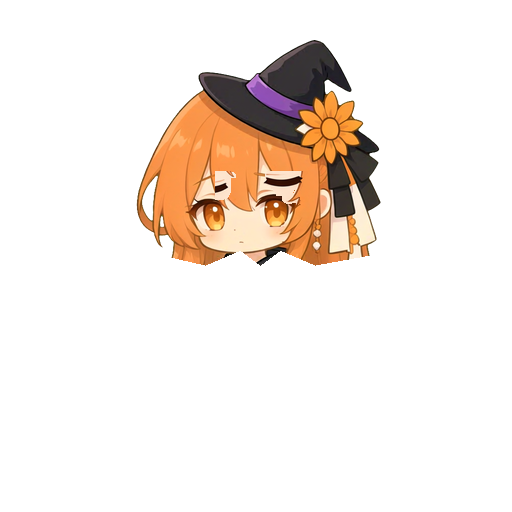
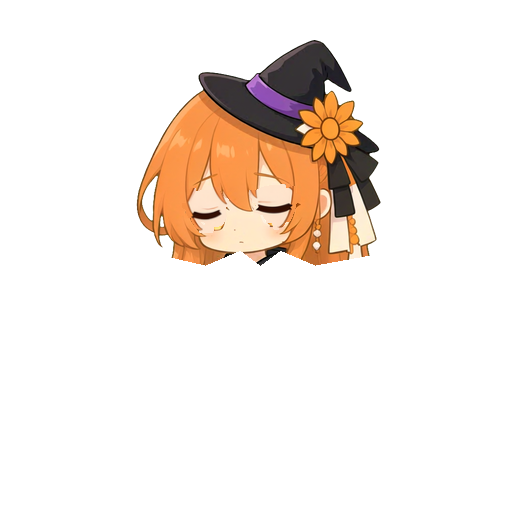
修正眨眼移植与换装 wink 的眼部残留
port_blink 的眼部取样带从 x=212 起，参考帧左眼却延伸到 x≈185，左眼掩码被截断，新装扮的 blink 会残留半只睁眼；放宽取样带后重生成 blink 与 head_blink。换装触发的 wink 原先用写死坐标的矢量遮罩，新立绘眼睛更大，椭圆盖不住睫毛和虹膜，改为贴本套 blink 帧的左眼区域，并补上逐套回归测试。

Changed region(s): [[0.3438, 0.3125, 0.5938, 0.4688]]

diff --git a/tools/port_blink.py b/tools/port_blink.py
@@ -16,9 +16,12 @@ SPRITES = BASE / "assets" / "sprites"
 
 DIFF_THRESHOLD = 60
 FACE_POLY = ((218, 165), (310, 165), (310, 252), (218, 252))
-EYE_BAND = ((212, 182), (314, 182), (314, 242), (212, 242))
+# 必须完整盖住两只眼睛：参考帧左眼一直延伸到 x≈185，右边缘截断会留下半只睁眼。
+EYE_BAND = ((170, 166), (330, 166), (330, 238), (170, 238))
 ALIGN_PAD = 10
 MIN_PIECE = 250
+SCALES = (0.90, 0.94, 0.98, 1.0, 1.02)
+FACE_CENTER = (264, 208)
 
 
 def dilate(mask: np.ndarray, radius: int = 1) -> np.ndarray:
@@ -52,12 +55,22 @@ def components(mask: np.ndarray) -> list[np.ndarray]:
     return found
 
 
+def scale_rgba(rgba: np.ndarray, scale: float, center: tuple[int, int]) -> np.ndarray:
+    cx, cy = center
+    coeffs = (1 / scale, 0, cx - cx / scale, 0, 1 / scale, cy - cy / scale)
+    image = Image.fromarray(rgba)
+    out = image.transform(
+        (CANVAS, CANVAS), Image.AFFINE, coeffs, resample=Image.BILINEAR
+    )
+    return np.asarray(out)
+
+
 def sad_shift(
     ref: np.ndarray,
     target: np.ndarray,
     window: np.ndarray,
-    max_shift: int = 10,
-) -> tuple[int, int]:
+    max_shift: int = 16,
+) -> tuple[int, int, int]:
     base = window & (ref[..., 3] > 8) & (target[..., 3] > 8)
     best = (0, 0)
     best_score = float("inf")
@@ -69,11 +82,7 @@ def sad_shift(
             if score < best_score:
                 best_score = score
                 best = (dy, dx)
-    return best
-
-
-def face_window() -> np.ndarray:
-    return polygon_mask((CANVAS, CANVAS), FACE_POLY)
+    return best[0], best[1], int(best_score)
 
 
 def eye_mask(ref_idle: np.ndarray, ref_blink: np.ndarray) -> np.ndarray:
@@ -89,20 +98,34 @@ def port_blink(outfit: str, ref: str = "casual") -> Path:
     ref_idle = np.asarray(Image.open(SPRITES / ref / "idle.png").convert("RGBA"))
     ref_blink = np.asarray(Image.open(SPRITES / ref / "blink.png").convert("RGBA"))
     idle = np.asarray(Image.open(SPRITES / outfit / "idle.png").convert("RGBA"))
-    window = face_window()
+    window = polygon_mask((CANVAS, CANVAS), FACE_POLY)
 
     # 第一段：参考 blink 对齐到参考 idle，收紧眼部差异
-    rdy, rdx = sad_shift(ref_idle, ref_blink, window)
-    ref_blink_aligned = shift_rgba(ref_blink, rdy, rdx)
+    rdy, rdx, _ = sad_shift(ref_idle, ref_blink, window)
+    ref_blink = shift_rgba(ref_blink, rdy, rdx)
 
-    # 第二段：参考 idle 对齐到目标 idle
-    tdy, tdx = sad_shift(ref_idle, idle, window)
+    # 第二段：尺度 + 平移对齐参考 idle 到目标 idle
+    best = (1.0, 0, 0, float("inf"))
+    for scale in SCALES:
+        si = scale_rgba(ref_idle, scale, FACE_CENTER)
+        dy, dx, score = sad_shift(si, idle, window)
+        if score < best[3]:
+            best = (scale, dy, dx, score)
+    scale, tdy, tdx, _ = best
+    si = scale_rgba(ref_idle, scale, FACE_CENTER)
+    sb = scale_rgba(ref_blink, scale, FACE_CENTER)
 
     out = idle.copy()
     pieces = 0
-    aligned_blink = shift_rgba(ref_blink_aligned, tdy, tdx)
-    for part in components(eye_mask(ref_idle, ref_blink_aligned)):
-        patch = shift_rgba(dilate(part, 1).astype(np.uint8), tdy, tdx).astype(bool)
+    for part in components(eye_mask(si, sb)):
+        ys, xs = np.where(part)
+        y0, y1 = max(0, ys.min() - ALIGN_PAD), min(CANVAS, ys.max() + ALIGN_PAD + 1)
+        x0, x1 = max(0, xs.min() - ALIGN_PAD), min(CANVAS, xs.max() + ALIGN_PAD + 1)
+        piece_window = np.zeros((CANVAS, CANVAS), dtype=bool)
+        piece_window[y0:y1, x0:x1] = True
+        pdy, pdx, _ = sad_shift(si, idle, piece_window)
+        aligned_blink = shift_rgba(sb, pdy, pdx)
+        patch = shift_rgba(dilate(part, 2).astype(np.uint8), pdy, pdx).astype(bool)
         patch &= idle[..., 3] > 8
         out[patch] = aligned_blink[patch]
         pieces += 1
@@ -110,7 +133,7 @@ def port_blink(outfit: str, ref: str = "casual") -> Path:
     Image.fromarray(out).save(target)
     print(
         f"{outfit}: blink ported from {ref} "
-        f"(ref shift {rdy},{rdx}, target shift {tdy},{tdx}, {pieces} pieces)"
+        f"(ref shift {rdy},{rdx}, scale {scale:.2f}, base {tdy},{tdx}, {pieces} pieces)"
     )
     return target
 

diff --git a/tests/test_window_render.py b/tests/test_window_render.py
@@ -4,15 +4,24 @@ import os
 
 os.environ.setdefault("QT_QPA_PLATFORM", "offscreen")
 
-from PySide6.QtGui import QImage
+import numpy as np
+from PySide6.QtGui import QImage, QPainter
 from PySide6.QtWidgets import QApplication
 
-from pet.animation import SpriteLibrary
+from pet.animation import WINK_BOX, SpriteLibrary
 from pet.behavior import PetState
+from pet.outfits import available_ids
 from pet.rig import RigLibrary
 from pet.window import PetWindow
 
 _APP = QApplication.instance() or QApplication([])
+
+
+def qimage_array(image: QImage) -> np.ndarray:
+    image = image.convertToFormat(QImage.Format_RGBA8888)
+    data = np.frombuffer(image.constBits(), np.uint8)
+    rows = data.reshape(image.height(), image.bytesPerLine())
+    return rows[:, : image.width() * 4].reshape(image.height(), image.width(), 4).copy()
 
 
 def render(window: PetWindow) -> QImage:
@@ -41,6 +50,39 @@ def test_hover_lean_ramps_instead_of_snapping():
     falling = [window.step_hover(1 / 30) for _ in range(8)]
     assert max(abs(b - a) for a, b in zip(falling, falling[1:])) < 0.6
     assert falling[-1] < 0.6
+
+
+def test_wink_closes_the_whole_left_eye_for_every_outfit():
+    from tools.port_blink import components
+
+    sprites = SpriteLibrary()
+    window = PetWindow(sprites)
+    box_x, box_y, box_w, box_h = WINK_BOX
+    for outfit in available_ids():
+        idle = qimage_array(sprites.image(outfit, "idle"))
+        blink = qimage_array(sprites.image(outfit, "blink"))
+        diff = np.abs(
+            idle[..., :3].astype(np.int16) - blink[..., :3].astype(np.int16)
+        ).sum(axis=2)
+        mask = (idle[..., 3] > 8) & (blink[..., 3] > 8) & (diff > 100)
+        mask[:, 245:] = False
+        mask[:140] = False
+        mask[250:] = False
+        eye = max(components(mask), key=lambda piece: int(piece.sum()))
+        ys, xs = np.where(eye)
+        assert box_x <= xs.min() and xs.max() < box_x + box_w, outfit
+        assert box_y <= ys.min() and ys.max() < box_y + box_h, outfit
+
+        canvas = sprites.image(outfit, "idle").copy()
+        painter = QPainter(canvas)
+        window.set_outfit(outfit)
+        window._draw_expression(painter, PetState(expression="wink"))
+        painter.end()
+        result = qimage_array(canvas)
+        delta = np.abs(
+            result[ys, xs, :3].astype(np.int16) - blink[ys, xs, :3].astype(np.int16)
+        )
+        assert int(delta.max()) <= 6, outfit
 
 
 def test_maid_and_casual_both_render():

diff --git a/pet/animation.py b/pet/animation.py
@@ -30,6 +30,8 @@ FEET = "feet"
 SPRITE_FEET_X = 256
 SPRITE_FEET_Y = 500
 HAND_SPOTS = ((174, 330, 30), (338, 330, 30))
+# 眨眼帧左眼区域，眨眼帧在这里只会比 idle 多一层闭眼；必须完整盖住每套的左眼。
+WINK_BOX = (174, 158, 68, 82)
 
 
 def part_at(sx: int, sy: int) -> str:
@@ -51,6 +53,7 @@ class SpriteLibrary:
     def __init__(self) -> None:
         self._cache: dict[tuple[str, str], QPixmap] = {}
         self._images: dict[tuple[str, str], QImage] = {}
+        self._winks: dict[str, tuple[QImage, int, int] | None] = {}
         self.missing: list[str] = []
 
     def preload(self) -> None:
@@ -100,6 +103,17 @@ class SpriteLibrary:
             image.fill(0)
         self._images[key] = image
         return image
+
+    def wink_patch(self, outfit: str) -> tuple[QImage, int, int] | None:
+        if outfit in self._winks:
+            return self._winks[outfit]
+        image = self.image(outfit, "blink")
+        x, y, width, height = WINK_BOX
+        patch = None
+        if not image.isNull():
+            patch = (image.copy(x, y, width, height), x, y)
+        self._winks[outfit] = patch
+        return patch
 
     def alpha_at(self, outfit: str, frame: str, sx: int, sy: int) -> int:
         if not (0 <= sx < SPRITE_SIZE and 0 <= sy < SPRITE_SIZE):

diff --git a/pet/window.py b/pet/window.py
@@ -481,19 +481,11 @@ class PetWindow(QWidget):
                     int(235 * (1.0 - phase * 0.5)),
                 )
         elif expression == "wink":
-            painter.setPen(Qt.NoPen)
-            painter.setBrush(QColor(253, 230, 205, 255))
-            painter.drawEllipse(QRectF(201, 191, 30, 23))
-            pen = QPen(QColor(90, 45, 20, 245), 3.4)
-            pen.setCapStyle(Qt.RoundCap)
-            painter.setPen(pen)
-            painter.setBrush(Qt.NoBrush)
-            path = QPainterPath()
-            path.moveTo(203, 201)
-            path.quadTo(216, 212, 229, 200)
-            painter.drawPath(path)
-            painter.drawLine(QPointF(203, 201), QPointF(198, 197))
-            painter.drawLine(QPointF(229, 200), QPointF(234, 196))
+            if state.frame == "idle":
+                wink = self.sprites.wink_patch(self.outfit)
+                if wink is not None:
+                    patch, x, y = wink
+                    painter.drawImage(QPointF(x, y), patch)
             self._sparkle(painter, 312, 172, 13.0, 220)
         elif expression == "tears":
             self._drop(painter, 232, 232, 11, QColor(120, 200, 255, 230))

diff --git a/tests/test_sprites.py b/tests/test_sprites.py
@@ -55,3 +55,20 @@ def test_icons_exist():
     tray = Image.open(ICONS / "tray.png")
     assert tray.size == (128, 128)
     assert (ICONS / "pet.ico").exists()
+
+
+def test_blink_mask_covers_both_eyes():
+    from tools.port_blink import SPRITES, components, eye_mask
+
+    idle = np.asarray(Image.open(SPRITES / "casual" / "idle.png").convert("RGBA"))
+    blink = np.asarray(Image.open(SPRITES / "casual" / "blink.png").convert("RGBA"))
+    pieces = []
+    for piece in components(eye_mask(idle, blink)):
+        xs = np.where(piece)[1]
+        pieces.append((int(xs.min()), int(xs.max()), int(piece.sum())))
+    assert len(pieces) == 2, pieces
+    left, right = sorted(pieces)
+    # 参考帧左眼一直延伸到 x≈185；掩码左边缘一旦收窄，目标帧会残留半只睁眼。
+    assert left[0] <= 195 and left[1] - left[0] >= 40, left
+    assert right[0] >= 250 and right[1] - right[0] >= 40, right
+    assert left[2] > 900 and right[2] > 900, pieces
